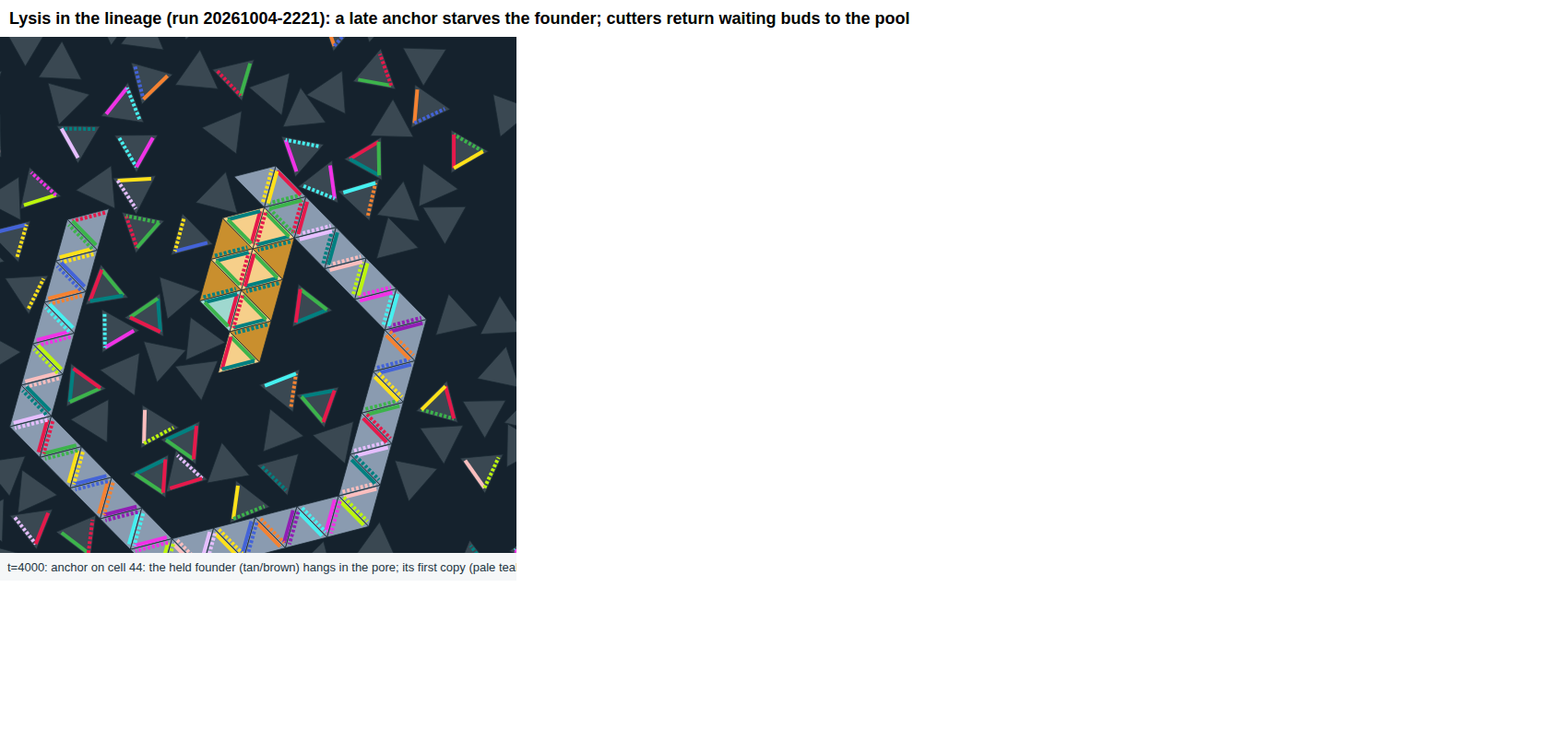
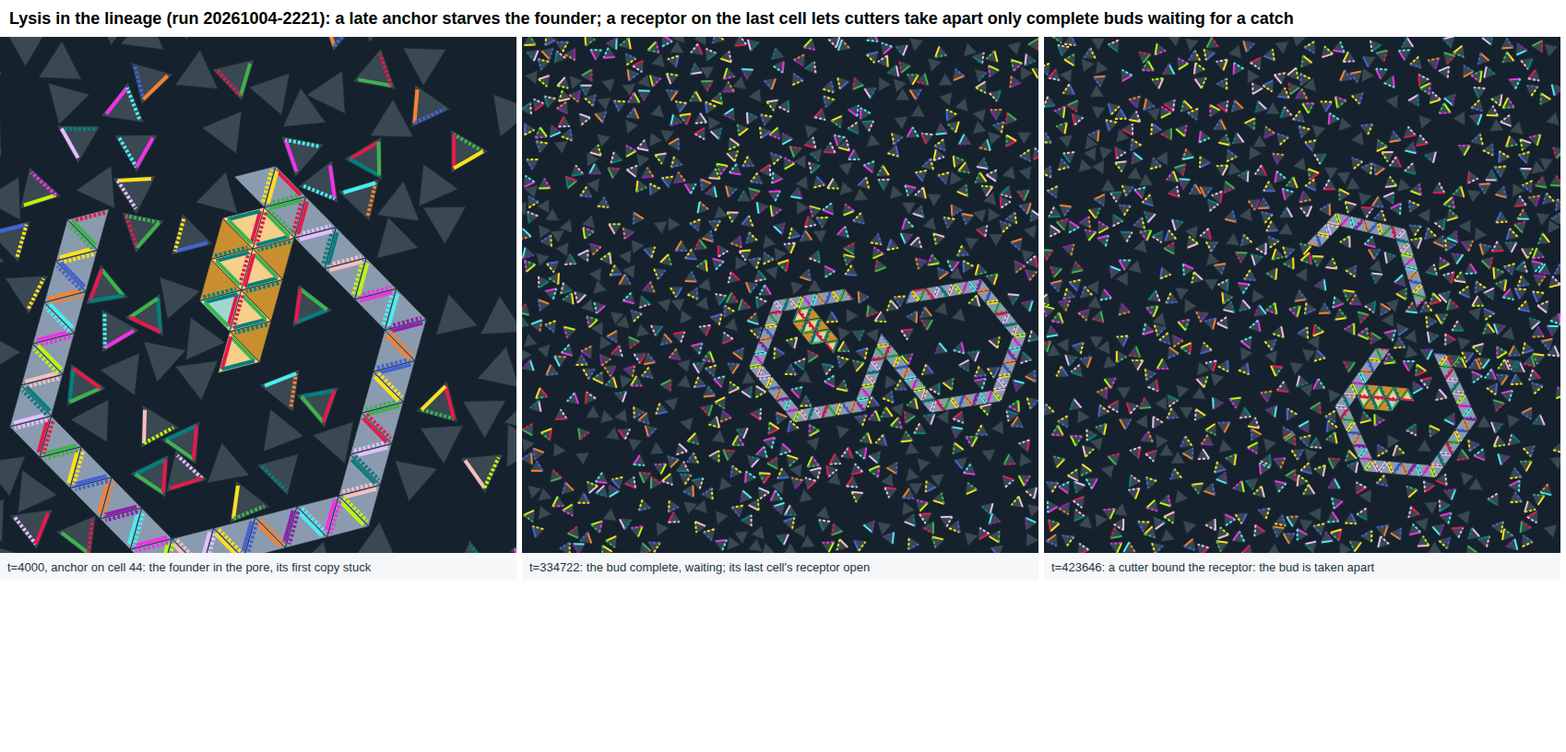
build 2221 (WIP): records (INNOVATIONS, NEXT handoff, IDEAS, ROADMAP, RULES, README), check budcycle-lysis, picture; budcycle split caption on lysis

diff --git a/tri/demos.js b/tri/demos.js
@@ -212,6 +212,12 @@ function demo(name,seed=1,steps,dir='runs',extra){
     // every copy of a kit part but those made at an E's pore side becomes a blank at a random place outside both cells),
     // BCB=200, BCF=0, BCS=32, BCL=0. The setup of runs 0621-0751 (check budcycle-free, retired in run 1021): BCS=32 BCF=180 BCFP=0.001 BCL=0.
     // BCDBG=1: genome copies by source (copied type, role, side) at the end
+    // Lysis in the lineage (build run 20261004-2221): BCC=n cutters (labelled, placed outside; 0), BCT their type
+    // ('z@!-|-|': binds a waiting anchor Z@|; with BCQ=1 'г@!-|-|'); BCA: the anchor cell (6; 44 or 40 put the held strand
+    // in or beside the pore, where its first copy jams); BCQ=1: a lysis receptor 'Г@&' on E's outer side (budKit receptor;
+    // with BCR=50 it binds a cutter only while E hears its waiting anchor, 40 bonds away, so only complete buds waiting
+    // for a catch are lysed). Observation: 'letgo:' lines mark lysed buds; the result adds cutBinds, lysedBuds, cuts,
+    // falseRel (roots released incomplete without lysis: the open relay's lag, NEXT candidate (o)), lysedAt, poolMin
     budcycle(){steps=steps||300000;const {GLUE,gcode:gc}=require('./sim');const AK=+(process.env.BCA||6),CU=+(process.env.BCC||0),RQ=process.env.BCQ==='1',cut=process.env.BCT||(RQ?'г@!-|-|':'z@!-|-|'),P=parseInt(extra)||8,B=+(process.env.BCB||20),BI=+(process.env.BCI||20),size=+(process.env.BCS||36),r=+(process.env.BCR||9),hold=process.env.BCHOLD==='1',after=+(process.env.BCAFTER||50000),SF=+(process.env.BCF??400),SFP=+(process.env.BCFP||0.0003),LP=+(process.env.BCL??0.002),LK=+(process.env.BCLK||0),GSTOP=+(process.env.BCGEN||0),GATE=process.env.BCGATE==='1',R=5;
       const K=S.budKit(R,7,null,process.env.BCES==='0'?false:process.env.BCES==='2'?'out':true,{at:AK,glue:'Z'},process.env.BCK==='0'?'-&':'-|',+(process.env.BCSEED||45),RQ?'Г@&':null),N=K.N,SC=K.seedCell,supply={'-?-?-?':B};
       for(const t of K.types)supply[t]=P;supply[K.types[N-1]]=+(process.env.BCE||0);if(SF)supply['---']=SF;if(CU)supply[cut]=CU;
@@ -244,7 +250,7 @@ function demo(name,seed=1,steps,dir='runs',extra){
         if(s.cpy[v*3+j]){let k;if(kitT.has(canon(s.typeName(u)))){const kk=Pu.includes(u)?Pu.indexOf(u):(cellOf.get(u)||[0,-1])[1];k=kk<0?'kitX':kk===N-1&&i===K.eSide?'E':kk===SC&&i===K.seedSide?'seed':'front';}
           else{const b=s.bodyOf(u);k=b.includes(Pu[0])?'gP':b.some(x=>cellOf.has(x))?'gB':'gF';}sk[k]++;}
         if(s.cpy[v*3+j]){if(bud.includes(u))cp.bud++;else if(Pu.includes(u))cp.par++;else if(!kitT.has(canon(s.typeName(u)))){cp.gen++;if(s.bodyOf(u).some(x=>kitT.has(canon(s.typeName(x)))))cp.genH++;}else cp.other++;if(i===K.eSide&&(u===Pu[N-1]||u===bud[N-1]))keep.add(v);}
-        else if(s.att[v*3+j]&&!s.anc[u*3+i]){const k=idx.get(canon(s.typeName(v))),w=cellOf.get(u);
+        else if(s.att[v*3+j]&&!s.anc[u*3+i]&&!isCut(v)){const k=idx.get(canon(s.typeName(v))),w=cellOf.get(u);
           // a root on a seed site (the parent's E or a bud's E) starts a bud; part k on cell k-1 of a bud grows it
           if(k===0&&(u===Pu[SC]||w&&w[1]===SC)){const b=new Array(N).fill(-1);b[0]=v;const on=u===Pu[SC]?'P':w[0];buds.push({cells:b,on,gen:on==='P'?1:buds[on].gen+1,t0:s.t,tc:0,tl:0,tk:0,rel:0,relAfter:0});cellOf.set(v,[buds.length-1,0]);if(buds.length===1)tb[0]=s.t;else if(u===Pu[SC])ev.par2++;else ev.bud2++;}
           else if(k>0&&w&&w[1]===k-1&&buds[w[0]].cells[k]<0){buds[w[0]].cells[k]=v;cellOf.set(v,[w[0],k]);if(GATE&&k===SC&&!buds[w[0]].tl)s.spent[v*3+K.seedSide]=1;if(w[0]===0)tb[k]=s.t;}else ev.stray++;}
@@ -283,7 +289,7 @@ function demo(name,seed=1,steps,dir='runs',extra){
         if(!sealedIn&&bud[N-2]>=0){sealedIn={t,...strands(),blanks:all.filter(u=>!s.bonded(u)&&s.typeName(u)==='-?-?-?'&&where(s.px[u],s.py[u])!=='out').length,E:all.filter(u=>!s.bonded(u)&&idx.get(canon(s.typeName(u)))===N-1&&where(s.px[u],s.py[u])!=='out').length};}
         if(n()>=shot&&!tc){snap(s,`g${shot}`,`t=${t}: ${n()} of ${N} cells`,focus(),false);shot+=12;}
         if(!tc&&bud[N-1]>=0){tc=t;snap(s,'done',`t=${t}: the bud is complete (${N} cells)${ev.catchT?', its anchor holding a strand':''}`,focus(),false);}
-        if(!ts&&bud[0]>=0&&![0,1,2].some(k=>s.partner(bud[0],k)===Pu[SC])){ts=t;ev.splitN=n();snap(s,'split',`t=${t}: the bud lets go of its parent (${n()} cells)`,focus(),false);}
+        if(!ts&&bud[0]>=0&&![0,1,2].some(k=>s.partner(bud[0],k)===Pu[SC])){ts=t;ev.splitN=n();snap(s,'split',`t=${t}: the bud ${buds[0].ly?'is taken apart (lysis)':'lets go of its parent'} (${n()} cells)`,focus(),false);}
         if(every(t,20))console.log(`t=${t} bud cells=${n()}/${N} catch=${ev.catchT||'no'} split=${ts||'no'} ${fmt(strands())} releases: parent ${ev.relP} bud ${ev.relB} free ${ev.relF}; copies: bud ${cp.bud} parent ${cp.par} genome ${cp.gen} (of held ${cp.genH}); docks ${s.ev.dock||0} fills ${s.ev.fill||0}; blanks ${blanks()}; ${pfmt(pool())}; stray=${ev.stray}${CU?`; buds ${buds.length} lysed ${ev.lysed} cuts ${s.ev.lyse||0}`:''}`);
         // each bud's completion and let-go (observation), with the stocks at that moment; generation g reached: the first bud of generation g or later complete, let go and holding a caught strand
         if(t%100===0)for(let i=0;i<buds.length;i++){const B=buds[i];if(!B.tc&&B.cells[N-1]>=0)B.tc=t;

diff --git a/tri/check.js b/tri/check.js
@@ -49,6 +49,13 @@ const CHECKS=[
   // (closed walls, no harness). Replaces budcycle-free (two generations, 180 pre-food at 0.001, world 32; runs 0621-0751).
   {id:'budcycle-3',cap:'Three generations from the kit on a slow supply: a bud of the bud\'s bud complete, let go and holding a caught strand',demo:'budcycle',seeds:[1,2,3,4],need:3,steps:1200000,secs:2000,env:{BCAFTER:'900000',BCGEN:'3'},
     pass:(L,o)=>{const m=o.match(/result: .*split=(\S+) .*gen2=(\S+) gen3=(\S+) ownCopies=(\S+) stray=(\d+)/);return [!!m&&m[3]!=='not'&&+m[5]===0,m?`first split ${m[1]}, generation 2 at ${m[2]}, 3 at ${m[3]}, own copies after let-go (generation:copies) ${m[4]}, ${m[5]} stray`:'no result'];}},
+  // run 20261004-2221 (build): lysis in the lineage. budcycle-3's setup with a lysis receptor 'Г@&' on each body's last
+  // cell E (budKit receptor; kit only, no core change), openRange 50 and 2 cutters 'г@!-|-|' (labelled): the receptor
+  // binds only while E hears its waiting anchor, so cutters take apart complete buds waiting for a catch and nothing
+  // else. Passes a world that reaches generation 3 with every lysed bud complete (47 cells) and no stray part
+  {id:'budcycle-lysis',cap:'Lysis in the lineage: cutters at a receptor on the last cell take apart only complete buds waiting for a catch; three generations',demo:'budcycle',seeds:[1,2,3,4],need:3,steps:1200000,secs:2000,env:{BCAFTER:'900000',BCGEN:'3',BCQ:'1',BCR:'50',BCC:'2'},
+    pass:(L,o)=>{const m=o.match(/result: .*gen3=(\S+) .*stray=(\d+) .*lysedBuds=(\d+) .*falseRel=(\d+) lysedAt=(\S+) poolMin=(\d+)/);const sel=m&&(m[5]==='none'||m[5].split(',').every(x=>x==='47'));
+      return [!!m&&m[1]!=='not'&&+m[2]===0&&sel,m?`generation 3 at ${m[1]}, ${m[3]} buds lysed (cells: ${m[5]}), ${m[4]} roots released incomplete, fewest free part type ${m[6]}, ${m[2]} stray`:'no result'];}},
 ];
 
 function run(c,seed){return new Promise(res=>{const args=[path.join(__dirname,'demos.js'),c.demo,String(seed),String(c.steps),path.join('runs','check')];if(c.extra)args.push(c.extra);

diff --git a/docs/NEXT.md b/docs/NEXT.md
@@ -1,63 +1,40 @@
 # Next instance: start here
 
-State on 2026-10-04 (after autorun run 20261004-2051, explore). Read AGENTS.md first (rules of work), then this
+State on 2026-10-05 (after autorun run 20261004-2221, build). Read AGENTS.md first (rules of work), then this
 file. History of earlier runs: docs/INNOVATIONS.md (newest first), RULES (Core changes), the autorun log and git (older
-handoffs: NEXT.md in git, e.g. at `ef27e51` for run 1721's, `3d99dbd` for run 1421's, `ef7e74a` for run 1021's, `7c9bbac` for run 0820's, `882b7d4` for run 0751's).
+handoffs: NEXT.md in git, e.g. at `faeb75b` for run 2051's, `ef27e51` for run 1721's, `3d99dbd` for run 1421's, `ef7e74a` for run 1021's, `882b7d4` for run 0751's).
 
-### Current slice (autorun run 20261004-2221, build; in progress)
-**Goal:** NEXT priority 3a, lysis in the lineage: `budcycle` with the kind's anchor on cell 44 (openRange 50) and 1-2
-cutters `z@!-|-|` (labelled); measure what returns (pool per type over time, `sinks`), generations reached, whether
-the pool's fewest type still falls to 0, and the relay-lag releases (candidate (o)). **Done when:** the numbers are in
-INNOVATIONS; if lysis carries the lineage further than without it (generation 3 or more, or the fewest type held above
-0) in 3 of 4 worlds, a check. **Stop:** a clear answer either way within this run. New `budcycle` options (observation
-and labelled setup): `BCA` anchor cell (6), `BCC` cutters (0), `BCT` cutter type; 'letgo:' lines mark lysed buds;
-the result line adds cutBinds, lysedBuds, cuts, falseRel (buds released incomplete without lysis), poolMin.
-Batch 1 (container only; each `BCA=44 BCR=50 BCC=n BCGEN=3 BCAFTER=900000 node tri/demos.js budcycle SEED 1200000
-runs/lX`, about 65 minutes): `runs/la` (seed 1, 0 cutters): the founder's copy jams (3 docks in 1.2M), nothing leaks,
-the complete bud never catches; `lb` (seed 1, 1 cutter, which never binds): generation 3 at 776800, pool min 1;
-`lc` (seed 1, 2 cutters, pictures): 3 waiting buds lysed at 46-47 cells, generation 3 at 995600, pool min 0; `ld`
-(seed 2, 2 cutters): 7 lysed at 47 cells, generation 4 at 1174500 (via roots released at one cell), pool min 5,
-mean 12. falseRel (roots released at 1-12 cells, the relay lag (o)) 4, 11, 10: they grow into free rings.
-Batch 2: `runs/le` (2 cutters, seed 3): 5 lysed (45-47 cells), generation 2 at 886400, pool min 1; `lf` (2, seed 4,
-pictures): no cutter binds, generation 2 at 628800, pool min 0; `lg`, `lh` (0 cutters, seeds 2, 3): the same jam as
-`la` (3 docks, 2 fills, 2 releases within the first 3000 steps, then nothing; complete bud never catches).
-The jam (traced, `runs/jam.js` on a saved state): with the anchor on cell 44 the held founder hangs in the parent's
-pore (cell 44 is 2.65 from the pore's middle); a copy docked on its face 2 waits for a fill `-W-` that cannot enter.
-The default (anchor 6, range 9) also starts jammed (seed 1: 4 docks, 1 fill by t = 3000, unchanged at 30000) yet
-reaches generation 3: there the jam clears later. Anchor 40 and 38 (range 50) jam in the first 60k steps too.
-Batch 3 (BCA=40): founder jammed (4 docks, 0 fills, nothing leaked) in 4 of 4 by 360k; stopped. Batch 4 (BCA=44,
-BCES=2: E source outside): jammed in 3 of 4 (`lq`, `lr`, `lt`); `ls` generation 3 at 1062100 (5 lysed, pool min 3);
-`lt` 11 lysed, pool min 4, no strand ever. Regression (`runs/d1-4`, the budcycle-3 setup on this code): generation 3
-at 1031000, 977300, 735900, 827100, 0 stray (the recorded numbers); 3-9 incomplete let-goes per world there too
-(14 of 24 at one cell): the relay lag (o) is in the default lineage.
-**New design (kit only, no core change): a lysis receptor on the last cell.** `budKit(..., receptor)`: E's outer
-side `Г@&` (option `BCQ=1`, cutter `г@!-|-|`, openRange 50). E exists only once the bud is complete; its `&` side is
-bindable only while E hears an open signal, i.e. while the anchor (cell 6, 40 bonds away) waits; spent for good once
-it hears none (after the catch). So cutters take apart complete buds waiting for a catch and nothing else; the anchor
-stays on cell 6 where the founder's copies flow. Test "receptor: ..." passes (no motion). Caveat found by the test: a
-parent hears its attached bud's open signal (8 bonds), so a receptor not yet spent stays bindable; every parent's
-receptor is spent once it stands alone after its catch, unless its own bud is already growing then (buds that bud
-before they catch).
-Running: `runs/q1`-`q4` (`BCQ=1 BCR=50 BCC=2 BCGEN=3 BCAFTER=900000 node tri/demos.js budcycle SEED 1200000 runs/qN`;
-q1 with pictures), about 40 minutes.
+**Handoff status (autorun run 20261004-2221, build).** Priority 3a below is done, by another design than the one
+written: **a lysis receptor on the bud's last cell** (INNOVATIONS run 2221; IDEAS; kit only, no core change).
+`budKit(..., receptor)` puts `Г@&` on E's outer side; cutters `г@!-|-|` (labelled), openRange 50. E exists only on a
+complete bud and its `&` side binds only while E hears the waiting anchor (cell 6, 40 bonds away), so cutters take
+apart complete buds waiting for a catch and nothing else; the anchor stays on cell 6. New check `budcycle-lysis`
+(budcycle-3's setup with `BCQ=1 BCR=50 BCC=2`): generation 3 in 3 of 4 (seeds 2-4: 855000, 736900, 1083700), 16 of 16
+lysed buds complete (47 cells), fewest part type at the end 6, 1, 3, 1 (budcycle-3: 1, 0, 3, 1). Control without
+cutters: CONTROL. Test "receptor: ..." (35 tests). Seed 1 fails: its founder's first copy never completes, so no
+strand leaves and the cutters return its 8 waiting buds to the pool.
+Why not as written (anchor on cell 44): a late anchor hangs the held founder in or beside the pore and its first copy
+jams for good (5 of 5 cutter-free worlds at 44, 4 of 4 at 40/38 to 360k; E's source outside does not help); the default
+anchor 6 starts with the same jam and clears it at 100-180k when supply blanks reach the founder.
+Also measured: the open relay's lag (o) releases 3-9 roots incomplete per world in the default lineage (14 of 22 at
+one cell; rerun of budcycle-3 on this code gives the recorded generation-3 times, 0 stray), 0-16 with openRange 50.
+New `budcycle` options: `BCA` anchor cell, `BCC`/`BCT` cutters, `BCQ` receptor; result line: cutBinds, lysedBuds, cuts,
+falseRel, lysedAt, poolMin. Branch `claude/autorun-20261004-2221`, merged by PR. Nothing is running.
+Scratch (container only, regenerate with the commands in INNOVATIONS run 2221): `runs/la`-`lt` (anchor 44/40 batches),
+`runs/d1-4` (budcycle-3 rerun), `runs/q1-4` (the receptor, q1 with pictures), `runs/c1-4` (its control), `runs/jam.js`
+(prints a saved state's founder body: `node runs/jam.js runs/x/budcycle_endw.json.gz`), `runs/pic.js` (the picture).
 
-**Handoff status (autorun run 20261004-2051, explore).** Priority 3 below is done in isolation: the core has a reverse
-path, the lysis side `!` (RULES, Core changes and "Lysis"; INNOVATIONS run 2051; IDEAS). A triangle bonded to a
-partner's `!` side is lysed; lysis moves one bond per pass, not across a bond on an `&` side; a lysed triangle cuts all
-its bonds after a pass, binds nothing meanwhile, and once free is fresh (spent sides cleared, hears nothing). The cutter
-`z@!-|-|` (labelled, prepared, never copied) is a part that binds only a waiting anchor `Z@|`. New demo and check
-`lysis` (a parent with a bud stuck on its seed site, no food, 4 cutters, the anchor on cell 44, openRange 50): the stuck
-bud comes apart into its 47 parts in 4 of 4 and a later bud on the parent is built from 45-46 of them in 4 of 4.
-Findings: (1) with budcycle's anchor on cell 6 cutters kill every bud the moment its cell 6 attaches; on cell 44 only
-nearly complete or waiting buds are exposed; 4 cutters find an open anchor in 4-10k steps, faster than a bud's last
-two parts arrive, so regrown buds die at 44-46 cells (1 cutter with the oracle below: complete in 2 of 4 by 2M);
-(2) the open relay lags one pass behind a new bond: a fresh root re-bound in place and joined by its next cell in the
-next pass hears 0 and is released as complete (candidate (o) below; oracle `LYFIX=1` removes it). Checks: the 10 short
-ones byte for byte the same as main (31 worlds), 12 of 12 in all; `budcycle-3` 4 of 4 with the same results as runs 1021 and 1721 (generation 3 at 1031000, 977300, 735900, 827100; 0 stray; 1880 s); `lysis` 4 of 4; tests 34. Nothing is running.
-Branch `claude/autorun-20261004-2051`, merged by PR. Scratch (container only): `runs/ly44`, `runs/ly4` (the default
-setup, seeds 1-4), `runs/lyf` and `runs/lyf1` (the oracle, 4 and 1 cutters; `LYC=1 LYFIX=1 node tri/demos.js lysis N
-2000000 runs/x/sN`), `runs/lyfv` (the oracle with the fixed bookkeeping), `runs/pic1`, `runs/pic2` (the picture: seed 1
-defaults and seed 2 `LYC=1 LYFIX=1`, 600000 steps), `runs/trace*.js` (the traces of the wave and of the spurious release).
+**Next steps (proposals).**
+1. **Does lysis make the lineage longer?** (a `build`): long `budcycle` worlds (no `BCGEN`, 3-4M steps) with and without
+   the receptor's cutters, counting generations and the fewest part type over time; 1.2M steps with a stop at
+   generation 3 cannot show it. If yes, the labelled food loops (`BCL`, `BCLK`) may become unnecessary for bodies.
+2. **The founder's start-up jam** (seed 1 of the receptor setup never copies; the default clears it slowly): a held
+   strand whose first copy waits for a fill no blank brings. Measure in a `harden` how often and how long across seeds;
+   a layout where incoming blanks pass the strand, or more blanks inside at the start (labelled), may remove it.
+3. **Candidate (o)** at the next `explore` (index 43) or `core-review`: now with evidence from the default lineage.
+4. The parent's open receptor while its own bud grows (IDEAS run 2221) is closed by candidate (n): weigh them together.
+The check suite now takes about 70 minutes (`budcycle-3` and `budcycle-lysis` 2000 s each); the `cleanup` run (index 41)
+may weigh which lineage check to keep once item 1 is answered.
 
 ### Direction (autorun run 20261004-0751, review-intent): where the work stands and what comes first
 Eleven runs since the last direction check (run 1321): five `build` (1420, 1650, 1921, 2221, 0251), three `explore`
@@ -118,12 +95,8 @@ the rule and the checks retired; the corner default, the census and three genera
    catch; INNOVATIONS. The speed side note stays open: a supply drive that keeps its stock outside the world, about
    1.6x early in a run, changes outputs; decide it in a `build` that changes the setup.)*
 3. *(Done in isolation, run 2051: the lysis side `!`; INNOVATIONS, RULES.)* Next for it, in this order:
-   a. **`build` (index 40): lysis in the lineage.** `budcycle` with the kind's anchor late (budKit `anchor:{at:44}`,
-      openRange 50 so the root holds while it waits) and 1-2 cutters (option, labelled); measure what returns (parts
-      per type over time, the `sinks` census), generations reached and whether the pool's fewest type still falls to 0.
-      Watch for the relay lag (o): roots re-bound in place after a lysis are released as complete; count them. With the
-      anchor on cell 44 the seed site (cell 45) is next to it, which is the layout candidate (n) needs: weigh (n) with
-      the result.
+   a. *(Done, run 2221, by a receptor on the last cell instead of a late anchor: check `budcycle-lysis`; INNOVATIONS.
+      Its next steps are the handoff's items 1-2.)*
    b. **Core change (o) (next `explore`, index 43, or `core-review`):** the open relay's lag, below.
 4. **"Feeding" the offspring (the goal's second half, user 2026-10-04, IDEAS):** the parent should pass its bud the
    building blocks it needs to grow and later replicate; today the bud takes them from the shared environment and
@@ -132,9 +105,10 @@ the rule and the checks retired; the corner default, the census and three genera
 5. **Later: N generations as the organism's own check** (a lineage that runs until stopped once blocks circulate),
    then the backlog (scanner gate, membrane growth).
 
-**Rotation (autorun `projects/plywood/rotation.txt`):** unchanged: 40 build (priority 3a), 41 cleanup (prunes what
-the builds left in `budcycle`: the harness and doorway setup kept only for the pinned `budcycle` check, `BCLK`), 42
-build, 43 explore (priority 3b), 44 build, 45 explore, 46 review-intent, 47 core-review.
+**Rotation (autorun `projects/plywood/rotation.txt`):** unchanged: 41 cleanup (prunes what the builds left in
+`budcycle`: the harness and doorway setup kept only for the pinned `budcycle` check, `BCLK`; the anchor-44 findings
+need no option kept but `BCA`), 42 build (handoff item 1), 43 explore (candidate (o)), 44 build, 45 explore, 46
+review-intent, 47 core-review.
 
 **Core-change candidates (for the next `core-review` or `explore`).** (o) *The open relay hears "complete" too early
 after a new bond* (run 2051): a bonded triangle whose partners all had 0 or -1 in the previous pass hears 0, so a
@@ -182,6 +156,9 @@ BCGEN=3 BCAFTER=900000 node tri/demos.js budcycle 3 1200000 runs/x   # the linea
                                                    # about 30 minutes); 'letgo:' lines per bud, ownCopies in the result. Options: extra parts per
                                                    # type (8); BCB blanks, BCI inside, BCS world, BCR openRange (9), BCE E parts (0), BCF/BCFP the
                                                    # supply, BCL=q / BCLK=q free monomers / kit parts back to blanks (labelled loops), BCDBG=1 census
+BCQ=1 BCR=50 BCC=2 BCGEN=3 BCAFTER=900000 node tri/demos.js budcycle 3 1200000 runs/x   # run 2221: the lineage with a lysis
+                                                   # receptor on each body's last cell and 2 cutters (check budcycle-lysis; about 30 minutes);
+                                                   # BCA anchor cell (6), BCC cutters, BCT cutter type; result: lysedBuds, lysedAt, falseRel, poolMin
 node tri/demos.js lysis 1 1000000 runs/x           # run 2051: a bud stuck on its parent's seed site taken apart by cutters 'z@!-|-|' at its
                                                    # waiting anchor (cell 44, openRange 50; check lysis, 2.5 minutes); a new bud grows from its
                                                    # parts. LYC cutters (4), LYP parts per type (0), LYA anchor cell, LYR openRange, LYS world (30),

diff --git a/ROADMAP.md b/ROADMAP.md
@@ -22,9 +22,9 @@ splits it off.** Build every mechanism in isolation, then combine them.
 | Closure kind's bud from a part pool: a prepared parent grows its bud on its seed site from free parts of all 47 types and copy blanks, then splits on a (stand-in) catch | growth from a shared parts pool | works in isolation (run 20261003-1420: 4 of 4 check worlds, 8 of 8 at 107-200 thousand steps, 0 stray bindings, 1.37 copies per used part at one part per type per blank); the last cell must already be inside the sealed pair (with as many E parts as other types 2 of 4; 40 E parts: 8 of 8); with E's pore side plain (an E source inside, run 20261003-1650) 4 of 4 with no E part in the pool (check budpool-e, retired 2026-10-04: the corner bud's last site opens to the outside); the pool has no per-type regulation | demo budpool, IDEAS |
 | One generation from the kit: a parent holding its founder copies it, grows its bud from the part pool, the bud catches a real copy, splits and completes | a cell cycle | works (run 20261003-2221: 8 of 8 seeds split after a real catch and complete, 0 stray; check budcycle). Labelled: the prepared parent, the seeded pool and its harness. The bud usually catches while growing (7 of 8), lets go 10 steps later (openRange 9) and finishes its wall alone; both seed sites then start new buds (8 of 8). The limit after the split was the genome monomers' mix, not the amount of food: back monomers glue-capped strand ends and were copied over and over (run 20261004-0022); since strand ends bind only by an anchor's catch the monomers are made about 1 : 1 : 1 and 47-86% used (was 17-46%), and the bud copies 6-8 times after the split in 3 of 4 worlds (was 0-8, 3 of 4 at 0-3). Two generations: run to 600000 steps, a bud's own bud completes and lets go after its catch in 6 of 6 (check budcycle-2, retired 2026-10-04: budcycle-free shows two generations without the harness) | demo budcycle |
 | Three generations from the kit on a slow supply: the bud grows off its parent's corner (seed site on cell 45, `budKit(..., seedAt)`; the pair is never sealed), closed walls `-\|`, no harness; 400 pre-food turning slowly into copy blanks and unused monomers returning to blanks (labelled drives) | a lineage that feeds itself from the environment | works for three generations (run 20261004-1021: 4 of 4 check worlds, generation 3 at 0.74-1.03M steps; without the monomer loop 0 of 4; the chain's own copies after let-go 1-3 per bud in 2 of 4); run 20261004-1721 (build): where the blanks go (census `sinks`, `chain:`): the chains fail because a bud waiting for its catch buds first and its bud catches first; no kit change (E source removed or outside) meets 3 of 4 and keeps generation 3; an oracle that lets a bud bud only after let-go makes every chain bud copy, but slows the lineage and, with a fixed pool, surplus buds starve the next generation (candidate (n)); a burn-down, not yet a metabolism: only blanks change type, so blanks end as kit parts and bodies and the pool's fewest falls to 0-3 (INNOVATIONS run 1021). Before: two generations on 180 pre-food in 3 of 4 (run 0621, check `budcycle-free`, retired in run 1021); census run 0751. Next: a reverse path in the core (NEXT, candidate (m); first step: the lysis side, run 2051, row below) | demo budcycle (defaults), check budcycle-3 |
-| Lysis (reverse path): a lysis side `!` lyses the triangle it binds; lysis moves one bond per pass (not across `&` joints) and each lysed triangle cuts its bonds and leaves fresh, so a body comes apart whole into the parts it was made of; a cutter part `z@!-\|-\|` binds only a waiting anchor | death and recycling (predation, lysis) | works in isolation (run 20261004-2051: a bud stuck on its parent's seed site taken apart in 4 of 4 worlds, a new bud on the parent built from 45-46 of its 47 parts in 4 of 4; check `lysis`); not yet in the lineage: on budcycle's anchor cell 6 cutters kill every growing bud, and the open relay's one-pass lag releases a re-bound root (candidate (o)) | sim.js `_lyse`, demo lysis, check lysis |
+| Lysis (reverse path): a lysis side `!` lyses the triangle it binds; lysis moves one bond per pass (not across `&` joints) and each lysed triangle cuts its bonds and leaves fresh, so a body comes apart whole into the parts it was made of; a cutter part `z@!-\|-\|` binds only a waiting anchor | death and recycling (predation, lysis) | works in isolation (run 20261004-2051: a bud stuck on its parent's seed site taken apart in 4 of 4 worlds, a new bud on the parent built from 45-46 of its 47 parts in 4 of 4; check `lysis`); in the lineage (run 20261004-2221): a receptor `Г@&` on each body's last cell (`budKit(..., receptor)`, kit only) lets cutters `г@!-\|-\|` take apart only complete buds waiting for a catch: 16 of 16 lysed buds complete, generation 3 in 3 of 4 (check `budcycle-lysis`); a longer lineage from it not yet shown; the open relay's one-pass lag releases roots incomplete in the default lineage too (candidate (o)) | sim.js `_lyse`, demo lysis, budcycle `BCQ`, checks lysis, budcycle-lysis |
 
-Every row marked works is guarded by `node tri/check.js` (one line per capability, about an hour with 4 processes; `budcycle-3` alone 30-50 minutes)
+Every row marked works is guarded by `node tri/check.js` (one line per capability, about 70 minutes with 4 processes; `budcycle-3` and `budcycle-lysis` 30-50 minutes each)
 or by a test in `tri/test.js`.
 
 **Removed 2026-10-03 (core review run 20261003-2121; RULES, Core changes): the casting lineage.** Rows that worked and

diff --git a/docs/INNOVATIONS.md b/docs/INNOVATIONS.md
@@ -8,6 +8,44 @@ below and later removed are in git: `budpore`'s `BUDTOOTH`, `BUDPA`/`BUDPAG`, `B
 `BUDCAPL`, `BUDDC` at `7a98831` (removed in run 20261003-1351, cleanup). Results are from one or a few worlds; they show mechanisms,
 not statistics.
 
+## 2026-10-05 (autorun run 20261004-2221, build)
+
+- **Lysis in the lineage: a receptor on the bud's last cell, so cutters take apart only complete buds waiting for
+  their catch** — works as a selective mechanism in the lineage (check `budcycle-lysis`, 3 of 4 worlds); a longer
+  lineage from it: not yet shown. NEXT priority 3a. A kit change, no core change: `budKit(..., receptor)` puts
+  `Г@&` on E's outer side (a wall side `-|` before); cutters `г@!-|-|` (labelled, 2 per world) and openRange 50 (more
+  than the 40 bonds from the anchor on cell 6 to E). E exists only once a bud is complete; its `&` side binds only while
+  E hears an open signal, which on a complete bud only its waiting anchor sends; once the bud has caught, E hears none
+  and the side is spent for good. So a growing bud (no E yet) and an adult (spent) are never targets, and the anchor
+  stays on cell 6, where the founder's copies flow. Every parent's receptor is spent once it stands alone after its
+  catch; a parent whose own bud is already growing then keeps it open (found by the test; buds that bud before they
+  catch, run 1721).
+  - **Evidence.** Test "receptor: ..." (no motion): a cutter placed at the receptor of a complete bud waiting for its
+    catch binds it and the bud comes apart, the parent whole; a bud holding a stand-in strand has its receptor spent
+    and nothing binds. `budcycle` with `BCQ=1 BCR=50 BCC=2` (budcycle-3's setup otherwise), seeds 1-4, 1.2M steps:
+    generation 3 at 855000, 736900, 1083700 in seeds 2-4 (budcycle-3 on the same seeds: 977300, 735900, 827100);
+    16 buds lysed, every one complete and waiting (47 cells: 8, 0, 1, 7 per world); fewest free part type at the end
+    6, 1, 3, 1 (budcycle-3: 1, 0, 3, 1). Seed 1 fails for another reason: its founder's first copy never completes
+    (below), no strand ever leaves the parent, its buds wait for ever and the cutters return 8 of them to the pool. Control without cutters
+    (`BCQ=1 BCR=50`): CONTROL.
+  - **Priority 3a as written (anchor on cell 44, openRange 50, 0-2 cutters) fails, and why.** 12 worlds: with the
+    anchor late the held founder hangs in or beside the parent's pore (cell 44: 2.65 from the pore's middle), its first
+    copy docks within the first 3000 steps and then waits for a fill `-W-` (made when an incoming blank touches one of
+    the founder's backs) that never comes: 5 of 5 cutter-free worlds never leak a strand in 1.2M steps; of 7 with
+    cutters one never leaks and one leaks 2. The default (anchor 6) starts with the same jam and clears it at
+    100-180k, when blanks from the supply reach the founder (traced: fills at 55933 and 113984 in seed 1). Anchor 40
+    (the mirror of cell 6) and 38 jam too (4 of 4 to 360k); moving E's source outside (`BCES=2`) does not help (3 of 4
+    jammed). With cutters at the late anchor: 0-11 waiting buds lysed per world (45-47 cells), generation 3 or more in
+    4 of 7 by 1.2M (one of them via a free ring, below). The fewest free part type at the end follows the lysed count
+    loosely: 7 and 11 lysed, 5 and 4; 3-5 lysed, 0-3; none, 0-1.
+  - **The open relay's lag (candidate (o)) is in the default lineage too.** budcycle-3's four worlds (rerun on this
+    code: generation 3 at 1031000, 977300, 735900, 827100, the recorded numbers) release 3-9 roots incomplete per world
+    (14 of 22 at one cell); with openRange 50 and cutters 0-16. The released roots grow into free rings of the kind,
+    and some catch a strand (seed 2 at anchor 44: generation 4 from a root released at one cell).
+    ![lysis in the lineage](pictures/lysis_lineage.png)
+  - Command: `BCQ=1 BCR=50 BCC=2 BCGEN=3 BCAFTER=900000 node tri/demos.js budcycle N 1200000 runs/x` (about 30 minutes;
+    `BCA` anchor cell, `BCT` cutter type; result line: cutBinds, lysedBuds, cuts, falseRel, lysedAt, poolMin).
+
 ## 2026-10-04 (autorun run 20261004-2051, explore)
 
 - **A reverse path: the lysis side `!` takes a body apart into its parts, and a new bud grows from them** — works in

diff --git a/docs/IDEAS.md b/docs/IDEAS.md
@@ -8,6 +8,20 @@ file keeps the reasoning so it is not lost. Add new ideas at the top of their se
 An organism with a metabolism that constructs its offspring and feeds it until it can live on its own, then splits
 it off. Build every mechanism in isolation and combine them later. Module table in ROADMAP.
 
+## Ask "who is waiting" at the part that exists only when waiting is possible: a receptor on the last cell (build run 20261004-2221, 2026-10-05)
+The anchor cell does two jobs: in a parent it holds the strand where blanks reach it, in a bud it decides from when
+the bud can catch (and, with a cutter at the anchor, from when it can die). One cell cannot serve both: on cell 6 the
+strand is copied but a cutter kills every growing bud at 7 cells (run 2051); on cell 44 (or 40, 38) only nearly
+complete buds are exposed but the held strand hangs in the pore and its first copy jams (12 worlds, INNOVATIONS run
+2221). Decoupled with what the kit already has: the cutter's target is a second site on the last cell E, an
+attach-and-release side `Г@&`. E exists only on a complete bud; an `&` side binds only while its triangle hears an
+open signal, and on a complete bud only a waiting anchor sends one; once it hears none the side is spent for ever.
+So the receptor is open exactly while a complete bud waits for its catch (openRange covering the 40 bonds from anchor
+to E). The pattern is general: a site placed on the part made last, with an `&` mark, asks "complete and still
+waiting?" with no new rule. Cost found: a parent hears its attached bud's open signal (its seed cell is next to E), so
+a parent whose own bud is already growing when it catches keeps its receptor open; buds that bud only after letting
+go (candidate (n)) would close that too.
+
 ## A body taken apart whole returns one of each of its parts: lysis (explore run 20261004-2051, 2026-10-04)
 
 The first reverse path (RULES, Core changes; INNOVATIONS run 2051). Why this one of the user's four ideas: turning
@@ -649,6 +663,10 @@ into a C while it is open, hence airlocks.
 
 ## Pitfalls learned (copy lineage; moved from docs/NEXT.md, cleanup run 20261003-1351)
 Roughly newest first. Add new ones here; docs/NEXT.md points to this section.
+- *(run 2221)* **A late anchor starves the founder.** The held strand hangs from the anchor cell; on cells 38-44 it
+  sits in or beside the pore, its first copy jams waiting for a fill, and no incoming blank reaches it (12 worlds at 44,
+  4 at 40/38). The anchor on cell 6 jams too at first but clears in 100-180k steps. Place the strand where incoming
+  blanks pass it.
 - **Growth cannot stop beside a gap** (2026-10-03, run 1121). A ring grown from a periodic motif ends only by closing
   onto a cell already there (cells of one motif index are interchangeable among the six repeats), so a grown ring with
   a pore needs unique cells up to the pore's far edge, or cells released later. Unique cells lie on segments grown

diff --git a/docs/RULES.md b/docs/RULES.md
@@ -71,7 +71,7 @@ when the item entered the core (the repository restarted on 2026-10-01).
 | `&` completion release | mark | ring kits (`bud`), `budKit`, spent walls (`imprint p/m`) | 10-01 |
 | `\|` anchor | mark | `budKit` (the catching anchor; closed walls `-\|` in `budcycle`), `imprint p/m`, founder holds (`copy`, `imprint g`, tests) | 10-01; catches busy strands 10-02; a free one binds nothing 10-03 (removed 10-04, run 0820); never copied 10-03 (run 1221); a spent one catches nothing 10-03 (run 2121) |
 | `?` copy side | mark | every `imprint` variant, `pool`, `budpool`, `budcycle` | 10-02 |
-| `!` lysis side | mark | cutters `z@!-\|-\|` (`lysis`) | 10-04 (run 2051) |
+| `!` lysis side | mark | cutters `z@!-\|-\|` (`lysis`), `г@!-\|-\|` at a receptor `Г@&` on E (`budcycle` `BCQ`, run 2221) | 10-04 (run 2051) |
 | busy (30, chain bonds) | relayed signal | all copying | 10-01 |
 | zip (chain) | relayed signal | all copying | 10-01; from a held high end only 10-04 (run 0820: was the option `heldCopy`) |
 | open (`openRange` 120) | relayed signal | growth and `&` release | 10-01 |

diff --git a/README.md b/README.md
@@ -20,7 +20,8 @@ node tri/test.js                        # fast checks
 node tri/demos.js imprint 1 100000 runs 150p  # a cell fed through a pore copies its genome from blanks outside
 node tri/demos.js budcycle 1 300000 runs     # one generation: a parent grows its bud from parts, the bud catches a copy and splits
 node tri/demos.js lysis 1 1000000 runs        # a stuck bud taken apart into its parts; a new bud grows from them
-node tri/check.js                       # one PASS/FAIL line per working capability (~40 min)
+BCQ=1 BCR=50 BCC=2 node tri/demos.js budcycle 3 600000 runs   # the lineage with cutters that take apart only buds stuck waiting
+node tri/check.js                       # one PASS/FAIL line per working capability (~70 min)
 ```
 Pictures appear in `runs/` (needs Chromium; see tri/render.js). Plain Node.js, no dependencies.
 
